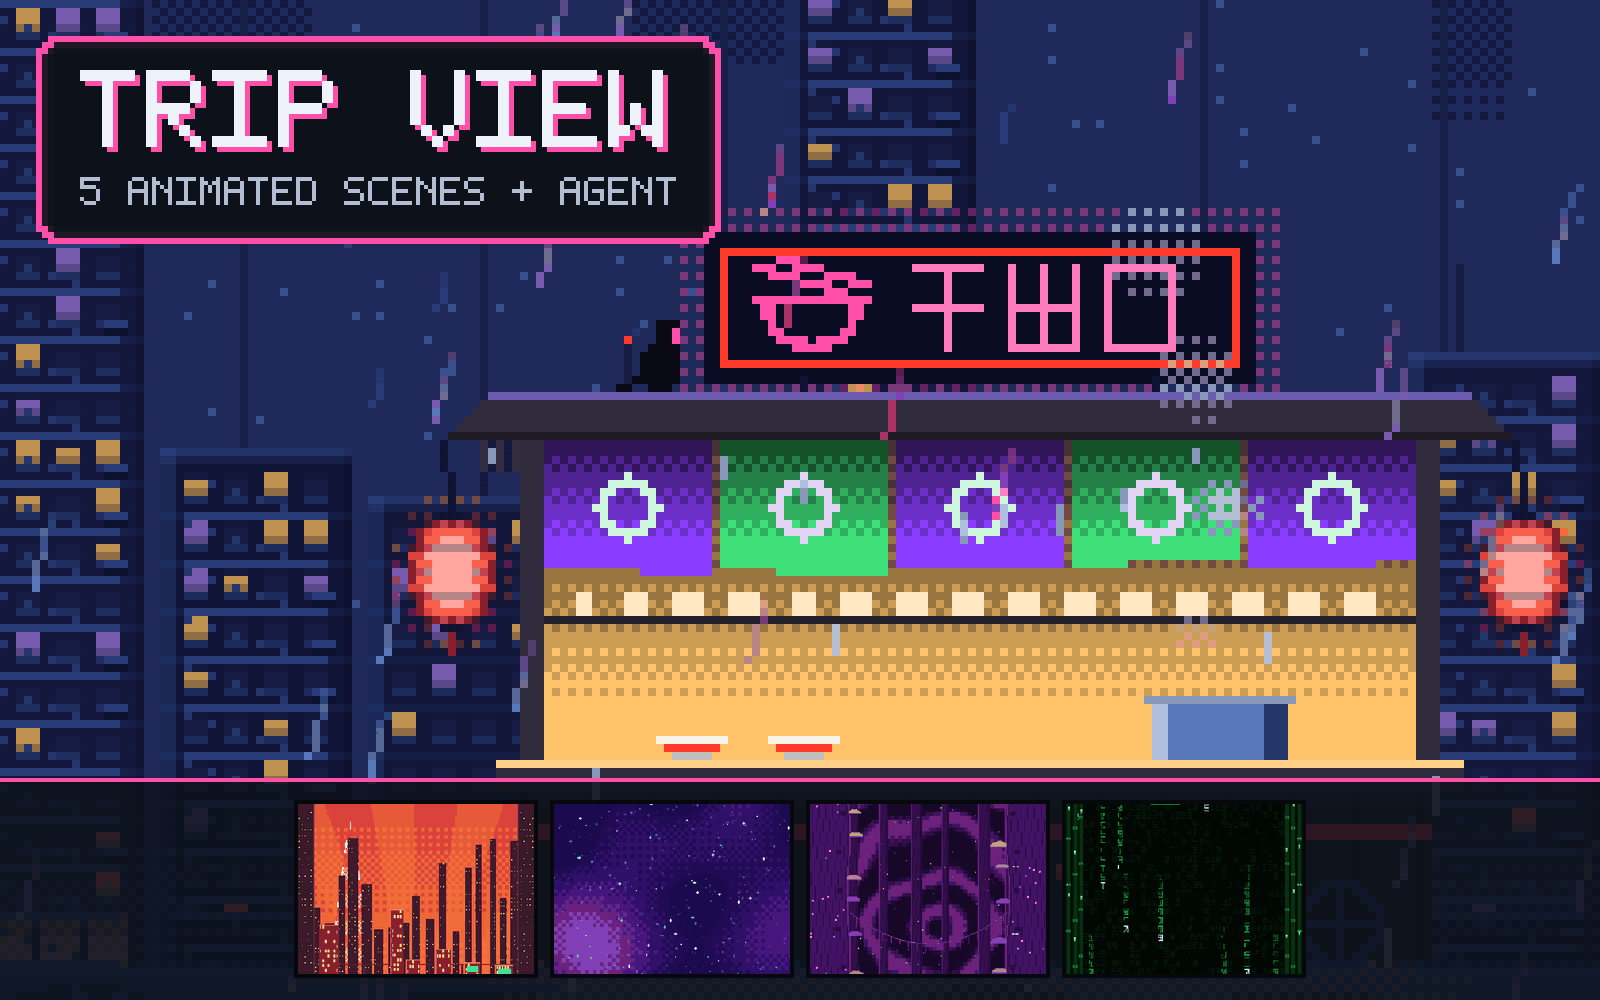
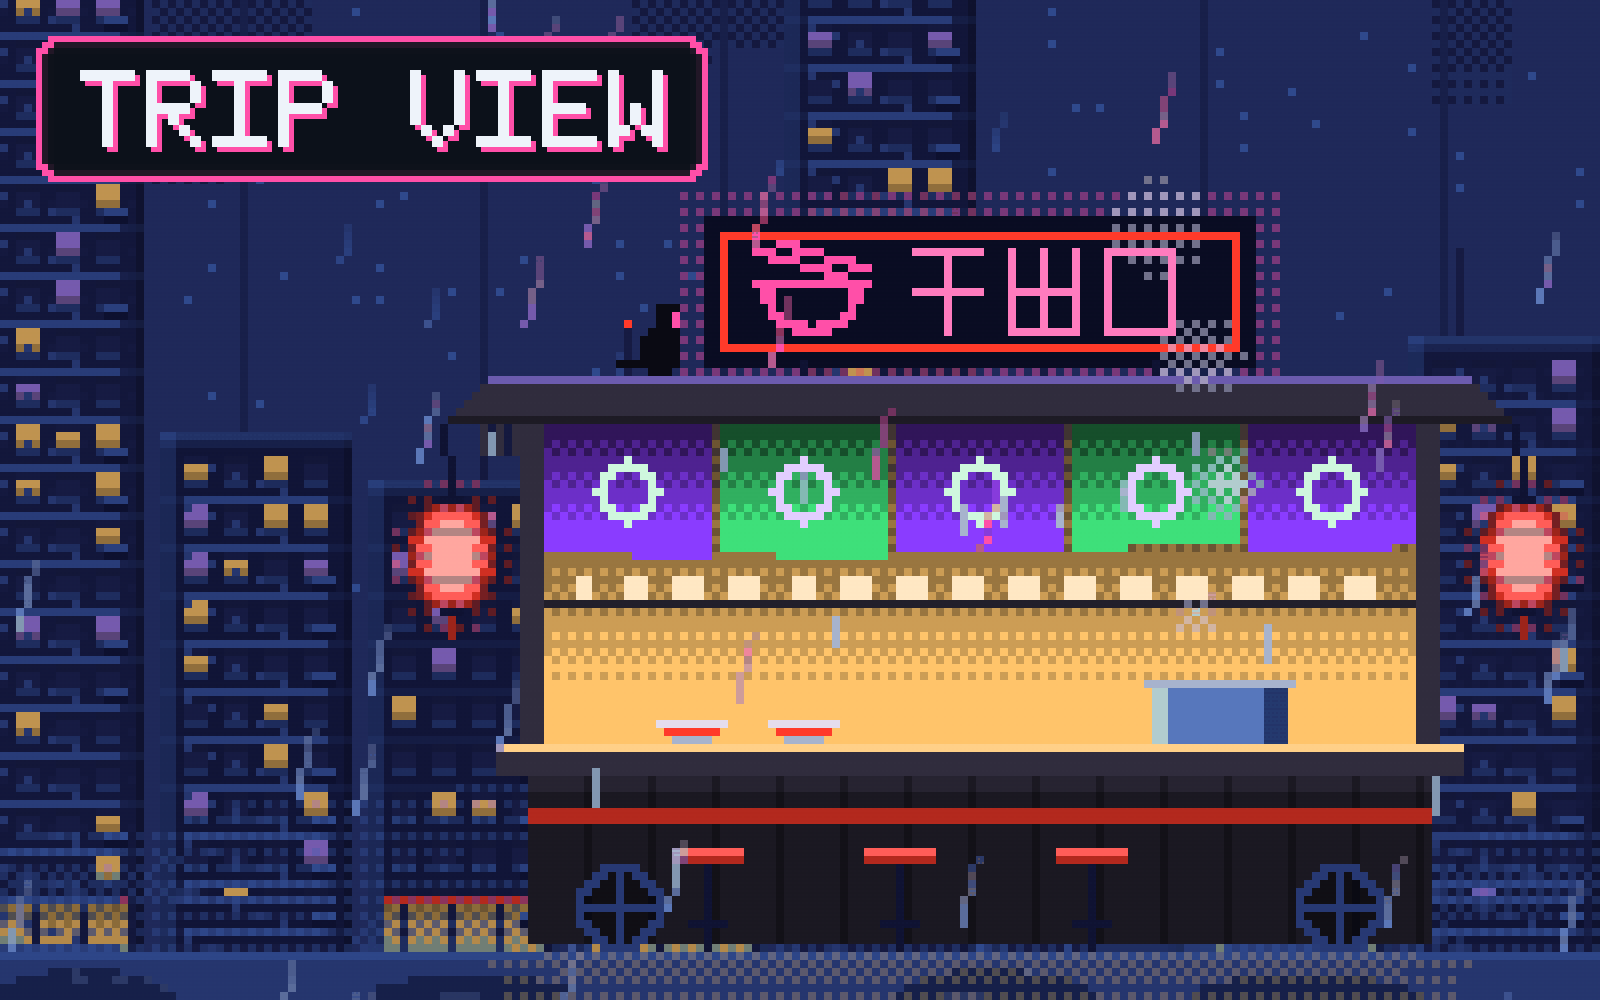
Trip View: store preview with only Neon Ramen and the title
Drop the strip of other scenes and the subtitle. The preview is now Neon
Ramen at a whole-pixel 2×, framed so the neon sign, the green and purple
noren and the whole stall show, with TRIP VIEW on a chamfered panel in the
sky at the top left.

diff --git a/trip-view/docs/make_store_preview.py b/trip-view/docs/make_store_preview.py
@@ -5,13 +5,13 @@
 
 The store shows one picture: in its grid at about 165×104 dp, and on the widget's page as wide as
 the panel and at most 320 dp tall. So the picture is a single hero at 1.6:1 that still reads when
-small: Neon Ramen full bleed at 2× (whole pixels, crisp), a pixel title on a chamfered glass panel,
-and a strip of the other four scenes.
+small: Neon Ramen full bleed at 2× (whole pixels, crisp) and the TRIP VIEW title on a chamfered glass
+panel. Nothing else: no strip of other scenes.
 
-  python make_store_preview.py <full-screen ramen frame.png> <screen-box.json> <scene-thumbs dir> <out.png>
+  python make_store_preview.py <full-screen ramen frame.png> <screen-box.json> <out.png>
 
 The frame is a launcher render of the full-screen page with the controls hidden (what "Set wallpaper"
-exports); screen-box.json is ~/.cache/pixbg/screen-box.json; the thumbs are ~/.cache/pixbg/scene-thumbs.
+exports); screen-box.json is ~/.cache/pixbg/screen-box.json.
 '''
 import json
 import os
@@ -73,38 +73,26 @@ def chamfer_panel(d, x0, y0, x1, y1, u, fill, edge):
         d.rectangle([x0 + a, y0 + b, x1 - a, y1 - b], fill=fill)
 
 
-def main(frame, box_json, thumbs, out):
+def main(frame, box_json, out):
     box = json.load(open(box_json))['box']
     scene = Image.open(frame).convert('RGB').crop(tuple(box))
     # Shader cells in the frame are 4 px; take an 800×500 window on the stall, aligned to the grid, at 2×.
     sw, sh = scene.size
-    # The stall sits right of center and above the strip, clear of the title in the top left.
+    # The stall and its neon sign sit right of center; the sky in the top left holds the title.
     x0 = max(0, (sw - 800) // 2 - 84) // 4 * 4
-    y0 = int(sh * 0.66 - 222) // 4 * 4
+    y0 = int(sh * 0.66 - 214) // 4 * 4
     img = scene.crop((x0, y0, x0 + 800, y0 + 500)).resize((W, H), Image.NEAREST)
     d = ImageDraw.Draw(img, 'RGBA')
 
-    # Title panel, top left
-    title, sub = 'TRIP VIEW', '5 ANIMATED SCENES + AGENT'
-    tpx, spx = 11, 4
-    pw = max(text_width(title, tpx), text_width(sub, spx)) + 2 * 44
-    chamfer_panel(d, 36, 36, 36 + pw, 36 + 7 * tpx + 7 * spx + 3 * 34, 6, GLASS + (232,), PINK + (255,))
-    pixel_text(d, title, 36 + 44, 36 + 34, tpx, WHITE, shadow=PINK)
-    pixel_text(d, sub, 36 + 44, 36 + 34 + 7 * tpx + 30, spx, SOFT)
+    # Title panel, top left, above the lantern and left of the neon sign
+    title = 'TRIP VIEW'
+    tpx = 11
+    pw = text_width(title, tpx) + 2 * 44
+    ph = 7 * tpx + 2 * 34
+    x, y = 36, 36
+    chamfer_panel(d, x, y, x + pw, y + ph, 6, GLASS + (232,), PINK + (255,))
+    pixel_text(d, title, x + 44, y + 34, tpx, WHITE, shadow=PINK)
 
-    # The other four scenes in a strip along the bottom
-    names = ['60-kaiju', '10-void', '40-forest', '50-zion']
-    tw, th, gap = 236, 170, 20
-    sx = (W - (len(names) * tw + (len(names) - 1) * gap)) // 2
-    band_y = H - th - 2 * 26
-    d.rectangle([0, band_y, W, H], fill=GLASS + (215,))
-    d.rectangle([0, band_y, W, band_y + 3], fill=PINK + (255,))
-    for i, n in enumerate(names):
-        t = Image.open(os.path.join(thumbs, n + '.png')).convert('RGB')
-        t = t.crop((0, 0, t.width, int(t.width * th / tw))).resize((tw, th), Image.LANCZOS)
-        x, y = sx + i * (tw + gap), band_y + 26
-        d.rectangle([x - 4, y - 4, x + tw + 3, y + th + 3], fill=INK)
-        img.paste(t, (x, y))
     img.quantize(colors=256, method=Image.Quantize.MEDIANCUT, dither=Image.Dither.NONE).save(out, optimize=True)
     print(out, os.path.getsize(out) // 1024, 'KB')
 

diff --git a/trip-view/README.md b/trip-view/README.md
@@ -85,7 +85,7 @@ On the full-screen page, open **Language → Custom**, type the language and cop
 
 ## Store preview
 
-The store shows one picture, both in its grid (about 165×104 dp) and on the widget's page (panel width, at most 320 dp tall). `docs/make_store_preview.py` composes it at 1600×1000 (1.6:1) from a launcher render of the full-screen page, so it reads at both sizes: Neon Ramen at a whole-pixel 2×, the title on a chamfered panel and the other four scenes in a strip. Don't add per-theme previews (`previews/<theme>.webp`): the store would show those instead.
+The store shows one picture, both in its grid (about 165×104 dp) and on the widget's page (panel width, at most 320 dp tall). `docs/make_store_preview.py` composes it at 1600×1000 (1.6:1) from a launcher render of the full-screen page, so it reads at both sizes: Neon Ramen at a whole-pixel 2× with the title on a chamfered panel in the sky, and nothing else. Don't add per-theme previews (`previews/<theme>.webp`): the store would show those instead.
 
 ## Layout
 
